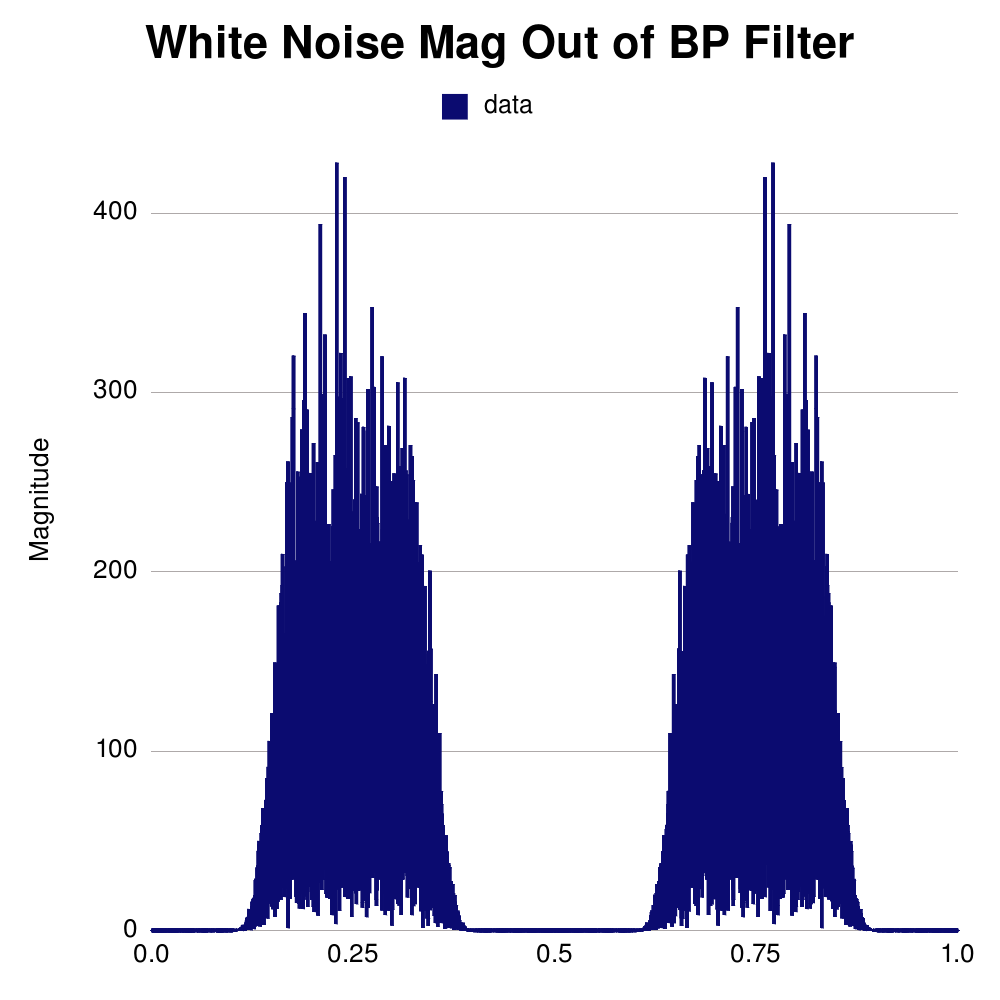
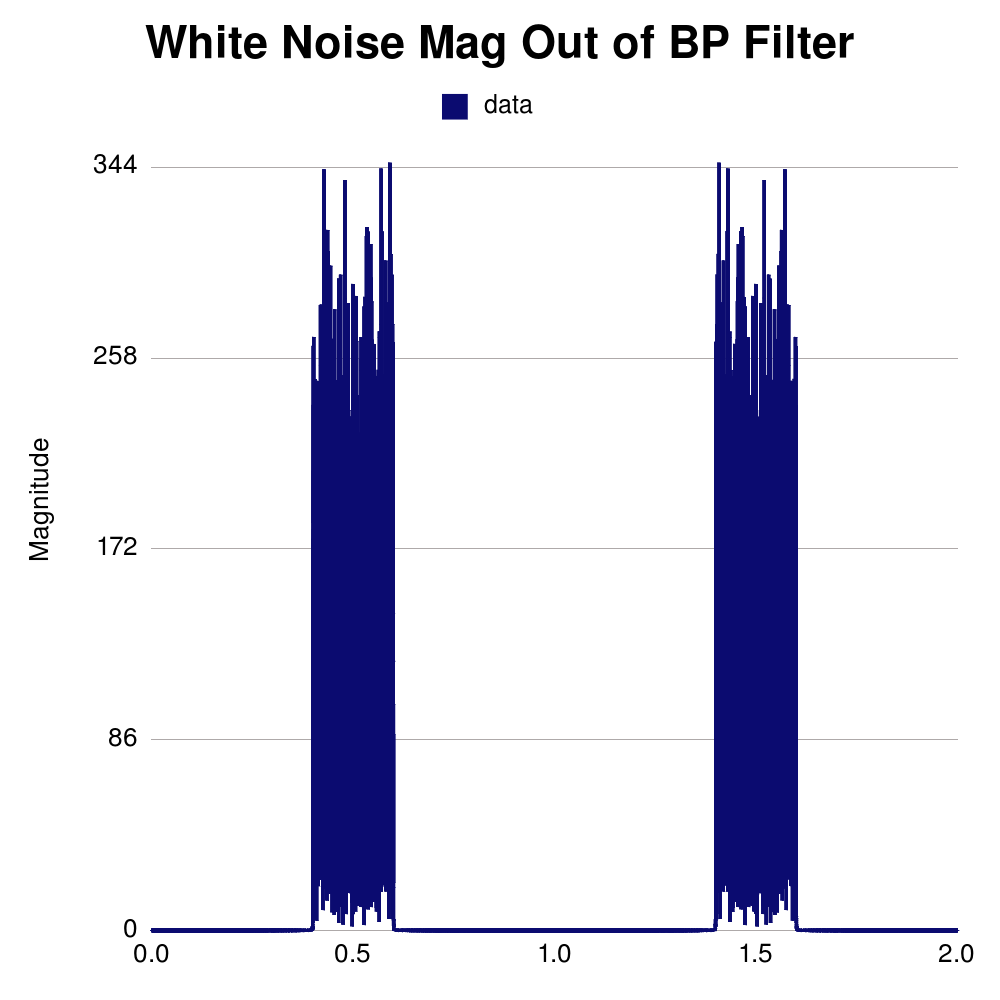
added convolvable classmethods, made it easier to change fft size in fft and digitalsignal

diff --git a/playground.rb b/playground.rb
@@ -9,34 +9,34 @@ pi = Math::PI
 #-------------------------------------------------------------
 #PROBLEM 1
 #---------------------------------------------------------------
-# # Create "white" Gaussian noise, 0 mean
-# dist = norm_dist.new(mean: 0, stddev: 1, size: 16384)
+# Create "white" Gaussian noise, 0 mean
+dist = norm_dist.new(mean: 0, stddev: 1, size: 16384)
 
-# # Create a bandpass filter, make FT dimensions match
-# bpfilter = factory.filter_for(type: "bandpass", wo: Math::PI / 2, bw: Math::PI / 5, transition_width: 0.1, stopband_attenuation: 80)
-# matched_size_ft = Dsp::FFT.new(time_data: bpfilter.weights, size: 16384)
+# Create a bandpass filter, make FT dimensions match
+bpfilter = factory.filter_for(type: "bandpass", wo: Math::PI / 2, bw: Math::PI / 5, transition_width: 0.0001, stopband_attenuation: 80)
+filter_dft = Dsp::FFT.new(time_data: bpfilter.weights, size: 16384 * 2)
 
-# # Get FT of White noise, calculate No 
-# dist_fft = Dsp::FFT.new(time_data: dist.data)
-# n_o = 2 * (dist_fft.magnitude.map{ |val| val ** 2}.sum.to_f / dist_fft.data.length)
+# Get FT of White noise, calculate No 
+dist_fft = Dsp::FFT.new(time_data: dist.data, size: 16384 * 2)
+n_o = 2 * (dist_fft.magnitude.map{ |val| val ** 2}.sum.to_f / dist_fft.data.length)
 
-# # Multiply freq domain of noise and filter to get output spectra
-# # Calculate output energy
-# filter_out = dist_fft * matched_size_ft
-# total_noise_out = filter_out.magnitude.map{ |val| (val ** 2) * (1.0 / 16384) }.sum 
-# time_data_out = fns.ifft(filter_out.data).map(&:real)
+# Multiply freq domain of noise and filter to get output spectra
+# Calculate output energy
+filter_out = dist_fft * filter_dft
+total_noise_out = filter_out.magnitude.take(16384).map{ |val| (val ** 2) * (1.0 / 16384) }.sum 
+time_data_out = fns.ifft(filter_out.data).map(&:real).take(16384)
 
-# bw = 1.0 / 10
+bw = 1.0 / 10
 
-# puts "Normal Dist. Input \n\tMean:#{prob.mean(dist.data)}, Stddev: #{prob.stddev(dist.data)}"
-# puts "No = #{n_o}"
-# puts "Total Noise Energy Out: #{total_noise_out}"
-# puts "Output: \n\tMean: #{prob.mean(time_data_out)}, Stddev: #{prob.stddev(time_data_out)}"
-# puts "Calculated Noise Energy Out: #{2 * n_o * bw}"
+puts "Normal Dist. Input \n\tMean:#{prob.mean(dist.data)}, Stddev: #{prob.stddev(dist.data)}"
+puts "No = #{n_o}"
+puts "Total Noise Energy Out: #{total_noise_out}"
+puts "Output: \n\tMean: #{prob.mean(time_data_out)}, Stddev: #{prob.stddev(time_data_out)}"
+puts "Calculated Noise Energy Out: #{ n_o * bw}"
 
 # f =  fns.linspace(0,1,16384)
 
-# plt.plot(x: f, y: matched_size_ft.dB, title: "Bandpass Filter")
+# plt.plot(x: f, y: filter_dft.dB, title: "Bandpass Filter")
 # plt.plot(x: f, y: dist_fft.magnitude, title: "White Noise Spectra" )
 # plt.plot(x: f, y: filter_out.magnitude, title: "White Noise Mag Out of BP Filter", y_label: "Magnitude")
 # plt.plot(x: f, y: filter_out.dB, title: "White Noise dB Out of BP Filter", y_label: "dB")
@@ -54,20 +54,20 @@ pi = Math::PI
 # output = sys.ds_conv noise
 # output_autocorrelation = output.acorr
 
-
+# n_o = 2 * noise.data.dot(noise.data)
 # #Display results
 # expanded_sys = Dsp::FFT.new(time_data: sys.data, size: 4096)
 # calculated_system_equation = ->(w){ (1 - 2 * e ** (Complex(0,-1) * w) + e ** (Complex(0,-2) * w)).abs}
 
-# f = fns.linspace(0,1,4096)
-# w = fns.linspace(0,2*pi, 4096)
-# calculated_system_spectra = w.map{|value| calculated_system_equation.call(value)}
-# plt.plot(x: f, y: expanded_sys.magnitude, title: "System Spectra")
-# plt.plot(x: f, y: (Dsp::FFT.new(time_data: noise.data) * expanded_sys).magnitude, title: "Output Spectra")
-# plt.plot(x: w, y: calculated_system_spectra, title: "Expected System Spectra", data_name: "1 - 2exp(jw) + exp(j2w)")
-# plt.plot(data: output_autocorrelation[4093..4101], title: "Autocorrelation of output")
+# # f = fns.linspace(0,1,4096)
+# # w = fns.linspace(0,2*pi, 4096)
+# # calculated_system_spectra = w.map{|value| calculated_system_equation.call(value)}
+# # plt.plot(x: f, y: expanded_sys.magnitude, title: "System Spectra")
+# # plt.plot(x: f, y: (Dsp::FFT.new(time_data: noise.data) * expanded_sys).magnitude, title: "Output Spectra")
+# # plt.plot(x: w, y: calculated_system_spectra, title: "Expected System Spectra", data_name: "1 - 2exp(jw) + exp(j2w)")
+# # plt.plot(data: output_autocorrelation[4093..4101], title: "Autocorrelation of output")
 
-
+# puts n_o
 # puts "Input noise mean: #{prob.mean(noise.data)}"
 # puts "Output mean: #{prob.mean(output.data)}"
 
@@ -143,19 +143,17 @@ pi = Math::PI
 #------------------------------------------------------------------------------
 #PROBLEM 5
 #------------------------------------------------------------------------------
-r = 10
-c = 10
-impulse_resp = ->(t){ (1.0 / (10*10)) * Math::E ** (-t / (10 * 10).to_f) } 
+# r = 10
+# c = 10
+# impulse_resp = ->(t){ (1.0 / (10*10)) * Math::E ** (-t / (10 * 10).to_f) } 
 
-noise = norm_dist.new(mean: 0, stddev: 10, size: 10000)
+# noise = norm_dist.new(mean: 0, stddev: 10, size: 50000)
 
-rc_circuit = DigitalSignal.new_from_eqn(eqn: impulse_resp, size: noise.size)
+# rc_circuit = DigitalSignal.new_from_eqn(eqn: impulse_resp, size: noise.size)
 
-noise_signal = DigitalSignal.new(data: noise.data)
-# output_spectra = Dsp::FFT.new(time_data: rc_circuit.data, size: noise.size * 2) * Dsp::FFT.new(time_data: noise_signal.data, size: noise.size * 2)
-output_spectra = rc_circuit.fft * noise_signal.fft
+# noise_signal = DigitalSignal.new(data: noise.data)
+# output_spectra = rc_circuit.fft(noise.data.length * 2) * noise_signal.fft(noise.data.length * 2)
 
-output_signal = output_spectra.ifft.map(&:real).take(noise.size - 1).last(10)
-puts output_signal
-variance = prob.variance(output_signal)
-puts "Varaince for RC = #{100} and Stddev: #{noise.stddev}, Variance = #{variance}"
+# output_signal = output_spectra.ifft.map(&:real).take(noise.size - 1)
+# variance = prob.variance(output_signal)
+# puts "Varaince for RC = #{100} and Stddev: #{noise.stddev}, Variance = #{variance.round(2)}"

diff --git a/lib/concerns/convolvable.rb b/lib/concerns/convolvable.rb
@@ -2,9 +2,28 @@ module Convolvable
 
     module ClassMethods
 
+        def convolve(data1, data2, strategy = BFConvolutionStrategy)
+            conv(data1, data2, strategy)
+        end
 
         def conv(data1, data2, strategy = BFConvolutionStrategy)
             strategy.conv(data1,data2)
+        end
+
+        def cross_correlation(data1, data2)
+            conv(data1, data2.reverse)
+        end
+
+        def xcorr(data1, data2)
+            cross_correlation(data1, data2)
+        end
+
+        def auto_correlation(data)
+            cross_correlation(data, data)
+        end
+
+        def acorr(data)
+            cross_correlation(data, data)
         end
 
     end

diff --git a/lib/fft.rb b/lib/fft.rb
@@ -53,8 +53,13 @@ class Dsp::FFT
     end
 
     def calculate_at_size(size)
-        zero_fill = Array.new(size - @time_data.length, 0)
-        @time_data = time_data.concat zero_fill
+        if size > self.data.size
+            zero_fill = Array.new(size - @time_data.length, 0)
+            @time_data = time_data.concat zero_fill
+        elsif size < self.data.size
+            @time_data = time_data.take(size)
+        end
+        self.strategy.data = time_data
         calculate
     end
 

diff --git a/lib/signals/digital_signal.rb b/lib/signals/digital_signal.rb
@@ -37,6 +37,13 @@ class DigitalSignal
         processed_data
     end
 
+    def fft(size)
+        if @fft.data.size != size
+            @fft.calculate_at_size(size)
+        end
+        @fft
+    end
+
     def process!
         processed_data = []
         for i in 0...data.length do

diff --git a/TODO.md b/TODO.md
@@ -3,7 +3,10 @@
 - [x] Change FFT `data` variable to hold fft vals instead of time domain vals. 
     - [x] Make FFT class `convolvable`  
 
-- [ ] Make new convolution strategy to replace Brute Force (BF) strategy
+- [x] Make new convolution strategy to replace Brute Force (BF) strategy
+    - [ ] This is what the FFT is for -> So, instead, clean up the FFT to allow ease of multiplying 2 together at the length necessary to ensure convolution signal can be fully regained (ie FFT sizes are length that convolution would be (ie data1.length + data2.length - 1))
+    - [ ] Figure out how to deal with ifft having very small imaginary values
+    - [ ] Figure out how to deal with zero padding from Radix2 strategy in outputs. 
 - [x] Add Gaussian distribution generator
 - [ ] Add White noise generator
 - [ ] Add `analytic signal` function 
@@ -11,7 +14,8 @@
 - [x] Implement Analog signal, allow custom sampling rate, include nyquist freq (based on freq or bandwidth)
     - [x] Implement quantization
     - [x] Allow companding techniques in quantization process
-- [ ] Look at using another graphical tool instead of gruff 
+- [x] Look at using another graphical tool instead of gruff 
+    - [x] Sticking with gruff for now
 - [x] Ensure FFT class is fully disconnected from FFTStrategy (ie having to zero fill for Radix2)
     - [x] Ensure custom strategies can be built and implemented
 - [x] Same as above for companding strategies and window strategies
@@ -26,4 +30,7 @@
 - [ ] test to ensure FFT multiplication equals convolution in the time domain
 - [ ] Add Decorators to Dsp::QuickPlot to allow vertical lines being added, and maybe color schemes too 
 - [ ] Make an alternative name to `dot` which is confusing because it is not the dot product (it does not sum at the end)
+- [ ] Add power_spectral_density, etc to FourierTransformable module
+- [ ] Figure out why convolution in matlab runs as slow as here, but cross-correlation is much faster
+- [ ] Make transition_width and bandwidth, wo, etc consistant in the filter part of the project (ie right now some are normalized frequencies from 0 to 1 and some are normalized frequencies in radians)
 
